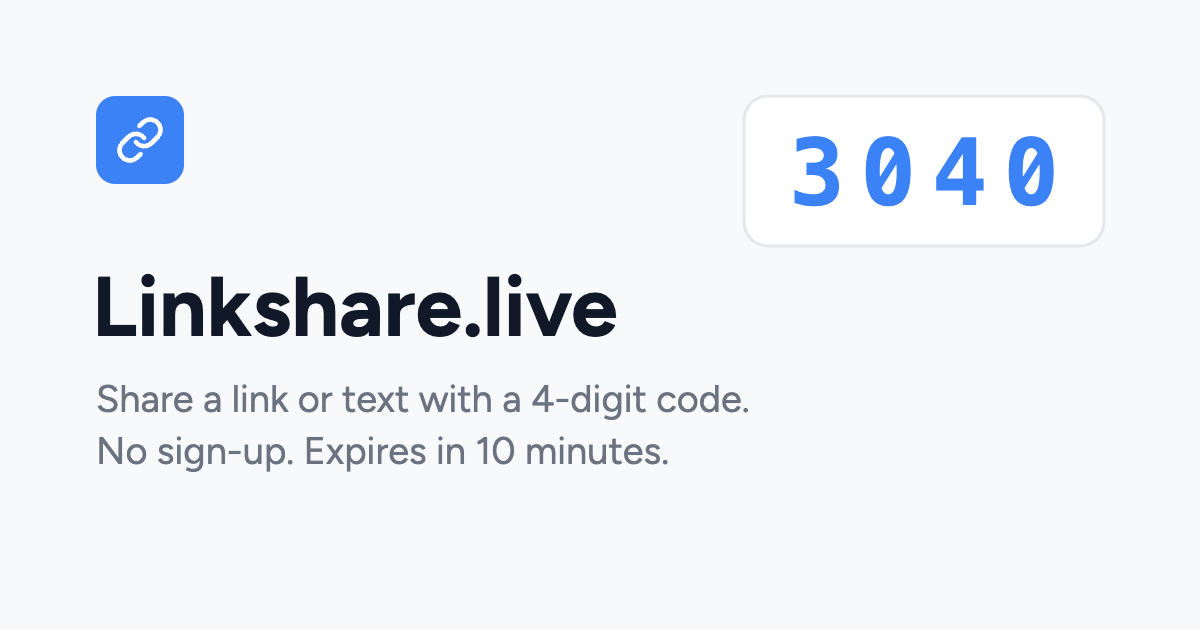
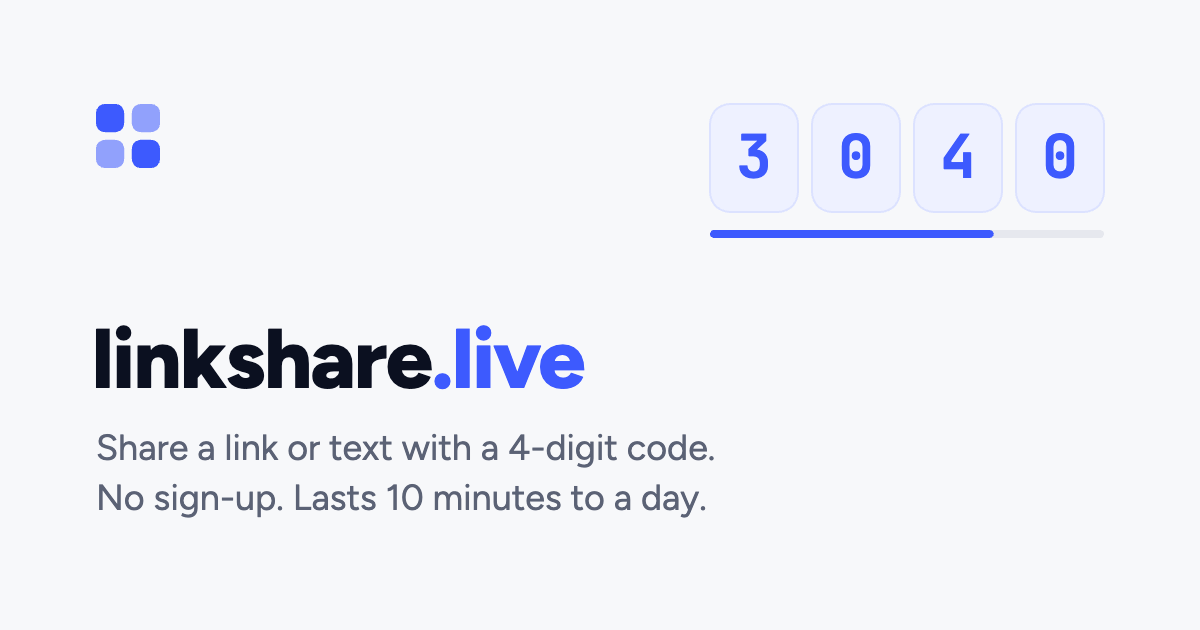
Brand: Signal — indigo-blue, 2x2 code mark, gradient buttons
- One indigo-blue ramp (#3D5AFE) replaces default Tailwind blue, so
  links, focus rings, code tiles and the timer move together
- Ink #0B1020 on #F7F8FA
- Mark: 2x2 grid of rounded squares (one per digit); lowercase
  "linkshare" wordmark with ".live" in the accent
- JetBrains Mono for codes (tiles and code boxes)
- Primary buttons: subtle top-to-bottom gradient, 1px top highlight,
  darker edge and soft tinted glow; secondary: white-to-gray gradient;
  disabled stays flat; focus rings only for keyboard focus
- New favicon, touch icon and 1200x630 share image
- Clipped segment labels are unselectable (no duplicate text on copy)

diff --git a/src/index.css b/src/index.css
@@ -16,8 +16,8 @@
     font-family: 'Figtree', sans-serif;
     -webkit-font-smoothing: antialiased;
     -moz-osx-font-smoothing: grayscale;
-    background-color: #f8f9fa;
-    color: #1a1a1a;
+    background-color: #F7F8FA;
+    color: #0B1020;
   }
 }
 
@@ -51,8 +51,8 @@
   }
 
   .btn {
-    @apply rounded-xl px-6 py-3 font-medium;
-    transition: transform 160ms var(--ease-out), background-color 200ms ease, box-shadow 200ms ease;
+    @apply rounded-xl px-6 py-3 font-medium border border-transparent;
+    transition: transform 160ms var(--ease-out), filter 150ms ease, box-shadow 150ms ease;
   }
 
   .btn:not(:disabled):active {
@@ -60,35 +60,60 @@
   }
 
   .btn:focus {
-    @apply outline-none ring-2;
+    @apply outline-none;
   }
 
+  .btn:focus-visible {
+    @apply ring-2;
+  }
+
+  /* Primary: a subtle top-to-bottom gradient, a 1px top highlight, a darker
+     edge and a soft tinted glow. Light enough to read as "pressable", never shiny. */
   .btn-primary {
-    @apply bg-blue-500 text-white;
+    color: #fff;
+    background-image: linear-gradient(180deg, #5873FF 0%, #3D5AFE 55%, #3049E0 100%);
+    border-color: #2F47D6;
+    box-shadow:
+      inset 0 1px 0 rgba(255, 255, 255, 0.28),
+      0 1px 2px rgba(29, 45, 150, 0.25),
+      0 4px 12px -4px rgba(61, 90, 254, 0.45);
   }
 
   .btn-primary:not(:disabled):hover {
-    @apply bg-blue-600;
+    filter: brightness(1.06);
   }
 
-  /* Waiting for input, not broken: quiet neutral instead of washed-out blue */
+  .btn-primary:not(:disabled):active {
+    box-shadow:
+      inset 0 1px 0 rgba(255, 255, 255, 0.2),
+      0 1px 1px rgba(29, 45, 150, 0.25);
+  }
+
+  /* Waiting for input, not broken: quiet and flat */
   .btn-primary:disabled {
-    @apply bg-gray-100 text-gray-400 cursor-not-allowed;
+    @apply text-gray-400 cursor-not-allowed;
+    background-image: none;
+    background-color: #F1F2F5;
+    border-color: transparent;
+    box-shadow: none;
   }
 
-  .btn-primary:focus {
+  .btn-primary:focus-visible {
     @apply ring-blue-300;
   }
 
   .btn-secondary {
-    @apply border border-gray-200 bg-white text-gray-700 overflow-hidden;
+    @apply text-gray-700 overflow-hidden;
+    background-image: linear-gradient(180deg, #FFFFFF 0%, #F6F7FA 100%);
+    border-color: #E3E6EC;
+    box-shadow: inset 0 1px 0 #fff, 0 1px 2px rgba(11, 16, 32, 0.04);
   }
 
-  .btn-secondary:hover {
-    @apply bg-gray-50;
+  .btn-secondary:not(:disabled):hover {
+    filter: brightness(0.985);
   }
 
-  .btn-secondary:focus {
+  .btn-secondary:focus-visible {
     @apply ring-gray-200;
   }
 }

diff --git a/index.html b/index.html
@@ -4,8 +4,8 @@
     <meta charset="UTF-8" />
     <meta name="viewport" content="width=device-width, initial-scale=1.0" />
     <title>Linkshare.live - Share Links & Text Easily</title>
-    <meta name="description" content="Share a link or text with a 4-digit code. No sign-up, no app. Codes expire in 10 minutes." />
-    <meta name="theme-color" content="#F8F9FA" />
+    <meta name="description" content="Share a link or text with a 4-digit code. No sign-up, no app. Codes last 10 minutes to a day." />
+    <meta name="theme-color" content="#F7F8FA" />
 
     <link rel="icon" type="image/svg+xml" href="/favicon.svg" />
     <link rel="apple-touch-icon" href="/apple-touch-icon.png" />
@@ -16,7 +16,7 @@
     <meta property="og:site_name" content="Linkshare.live" />
     <meta property="og:url" content="https://linkshare.live/" />
     <meta property="og:title" content="Linkshare.live - Share Links & Text Easily" />
-    <meta property="og:description" content="Share a link or text with a 4-digit code. No sign-up, no app. Codes expire in 10 minutes." />
+    <meta property="og:description" content="Share a link or text with a 4-digit code. No sign-up, no app. Codes last 10 minutes to a day." />
     <meta property="og:image" content="https://linkshare.live/og-image.png" />
     <meta property="og:image:width" content="1200" />
     <meta property="og:image:height" content="630" />
@@ -25,7 +25,7 @@
 
     <link rel="preconnect" href="https://fonts.googleapis.com">
     <link rel="preconnect" href="https://fonts.gstatic.com" crossorigin>
-    <link href="https://fonts.googleapis.com/css2?family=Figtree:wght@400;500;600;700&display=swap" rel="stylesheet">
+    <link href="https://fonts.googleapis.com/css2?family=Figtree:wght@400;500;600;700;800&family=JetBrains+Mono:wght@600;700&display=swap" rel="stylesheet">
   </head>
   <body>
     <div id="root"></div>

diff --git a/tailwind.config.js b/tailwind.config.js
@@ -9,13 +9,22 @@ export default {
     extend: {
       fontFamily: {
         sans: ['Figtree', 'sans-serif'],
+        // Codes and countdowns: every digit the same width, reads like a code
+        mono: ['"JetBrains Mono"', 'ui-monospace', 'SFMono-Regular', 'Menlo', 'monospace'],
       },
       colors: {
+        // Brand "Signal": one indigo-blue ramp, so every blue in the app moves together
         blue: {
-          300: '#93C5FD',
-          500: '#3B82F6',
-          600: '#2563EB',
+          50: '#EEF1FF',
+          100: '#DCE2FF',
+          200: '#C2CBFF',
+          300: '#9AA9FF',
+          400: '#6E84FF',
+          500: '#3D5AFE',
+          600: '#3049E0',
+          700: '#2A3FC2',
         },
+        ink: '#0B1020',
         gray: {
           50: '#F9FAFB',
           200: '#E5E7EB',
@@ -24,8 +33,8 @@ export default {
         },
         // App tokens used across components (were referenced but never defined)
         app: {
-          blue: '#3B82F6',
-          'text-primary': '#111827',
+          blue: '#3D5AFE',
+          'text-primary': '#0B1020',
           'text-secondary': '#6B7280',
           border: '#E5E7EB',
         },

diff --git a/src/components/BrandMark.tsx b/src/components/BrandMark.tsx
@@ -1,0 +1,21 @@
+import React from 'react'
+
+// The mark: a 2x2 grid of rounded squares — one for each digit of the code.
+// Diagonal pairs alternate in strength so it reads as a pattern, not a block.
+export const BrandMark: React.FC<{ size?: number; className?: string }> = ({ size = 20, className = '' }) => {
+  const cell = (size - 2) / 2
+  return (
+    <svg
+      width={size}
+      height={size}
+      viewBox={`0 0 ${size} ${size}`}
+      className={className}
+      aria-hidden
+    >
+      <rect x={0} y={0} width={cell} height={cell} rx={cell * 0.32} fill="currentColor" />
+      <rect x={cell + 2} y={0} width={cell} height={cell} rx={cell * 0.32} fill="currentColor" opacity={0.55} />
+      <rect x={0} y={cell + 2} width={cell} height={cell} rx={cell * 0.32} fill="currentColor" opacity={0.55} />
+      <rect x={cell + 2} y={cell + 2} width={cell} height={cell} rx={cell * 0.32} fill="currentColor" />
+    </svg>
+  )
+}

diff --git a/src/components/Header.tsx b/src/components/Header.tsx
@@ -1,16 +1,16 @@
 import React from 'react'
-import { Link } from 'lucide-react'
+import { BrandMark } from './BrandMark'
 
 export const Header: React.FC = () => {
   return (
     <header className="page-enter py-8 px-4 sm:px-6" style={{ '--i': 0 } as React.CSSProperties}>
       <div className="max-w-5xl mx-auto flex justify-center">
-        <div className="flex items-center space-x-2">
-          <Link className="h-5 w-5 text-blue-500" />
-          <h1 className="text-xl font-bold text-app-text-primary">
-            Linkshare.live
+        <a href="/" className="flex items-center gap-2" aria-label="linkshare.live home">
+          <BrandMark size={20} className="text-blue-500" />
+          <h1 className="text-xl font-extrabold tracking-[-0.02em] text-ink">
+            linkshare<span className="text-blue-500">.live</span>
           </h1>
-        </div>
+        </a>
       </div>
     </header>
   )

diff --git a/src/components/DropResult.tsx b/src/components/DropResult.tsx
@@ -86,8 +86,8 @@ export const DropResult: React.FC<DropResultProps> = ({
               key={i}
               aria-hidden
               style={{ '--i': i } as React.CSSProperties}
-              className={`code-tile flex h-16 w-12 sm:h-[72px] sm:w-14 items-center justify-center rounded-xl border text-4xl sm:text-[42px] font-semibold tabular-nums
-                ${isExpired ? 'border-gray-200 bg-gray-50 text-gray-300' : 'border-blue-100 bg-blue-50/60 text-app-blue'}`}
+              className={`code-tile flex h-16 w-12 sm:h-[72px] sm:w-14 items-center justify-center rounded-xl border font-mono text-[34px] sm:text-[38px] font-bold
+                ${isExpired ? 'border-gray-200 bg-gray-50 text-gray-300' : 'border-blue-100 bg-blue-50 text-blue-500'}`}
             >
               {digit}
             </span>

diff --git a/src/components/CodeInput.tsx b/src/components/CodeInput.tsx
@@ -104,8 +104,8 @@ export const CodeInput = forwardRef<CodeInputHandle, CodeInputProps>(
               fillFrom(0, e.clipboardData.getData('text'))
             }}
             onKeyDown={handleKeyDown(i)}
-            className={`code-box h-16 w-14 sm:h-[72px] sm:w-16 rounded-xl border bg-white text-center text-3xl font-semibold
-              text-gray-900 outline-none caret-transparent
+            className={`code-box h-16 w-14 sm:h-[72px] sm:w-16 rounded-xl border bg-white text-center font-mono text-[28px] font-bold
+              text-ink outline-none caret-transparent
               ${invalid ? 'border-red-300 focus:border-red-400 focus:ring-4 focus:ring-red-500/10' : 'border-gray-200 focus:border-blue-500 focus:ring-4 focus:ring-blue-500/10'}`}
           />
         ))}

diff --git a/src/components/DropForm.tsx b/src/components/DropForm.tsx
@@ -169,7 +169,7 @@ export const DropForm: React.FC = () => {
             {/* Active layer: white pill + dark labels, clipped to the selected third */}
             <div
               aria-hidden
-              className="seg-active-layer pointer-events-none absolute inset-1 grid grid-cols-3"
+              className="seg-active-layer pointer-events-none select-none absolute inset-1 grid grid-cols-3"
               style={{ clipPath: EXPIRY_CLIP[EXPIRY_OPTIONS.findIndex(o => o.minutes === expiry)] }}
             >
               {EXPIRY_OPTIONS.map(option => (

diff --git a/src/components/MainContent.tsx b/src/components/MainContent.tsx
@@ -62,7 +62,7 @@ export const MainContent: React.FC = () => {
           {/* Active layer: same labels, white pill, clipped to the selected half */}
           <div
             aria-hidden
-            className="seg-active-layer pointer-events-none absolute inset-0 grid grid-cols-2 gap-1"
+            className="seg-active-layer pointer-events-none select-none absolute inset-0 grid grid-cols-2 gap-1"
             style={{ clipPath: CLIP[activeTab] }}
           >
             {TABS.map(tab => (
